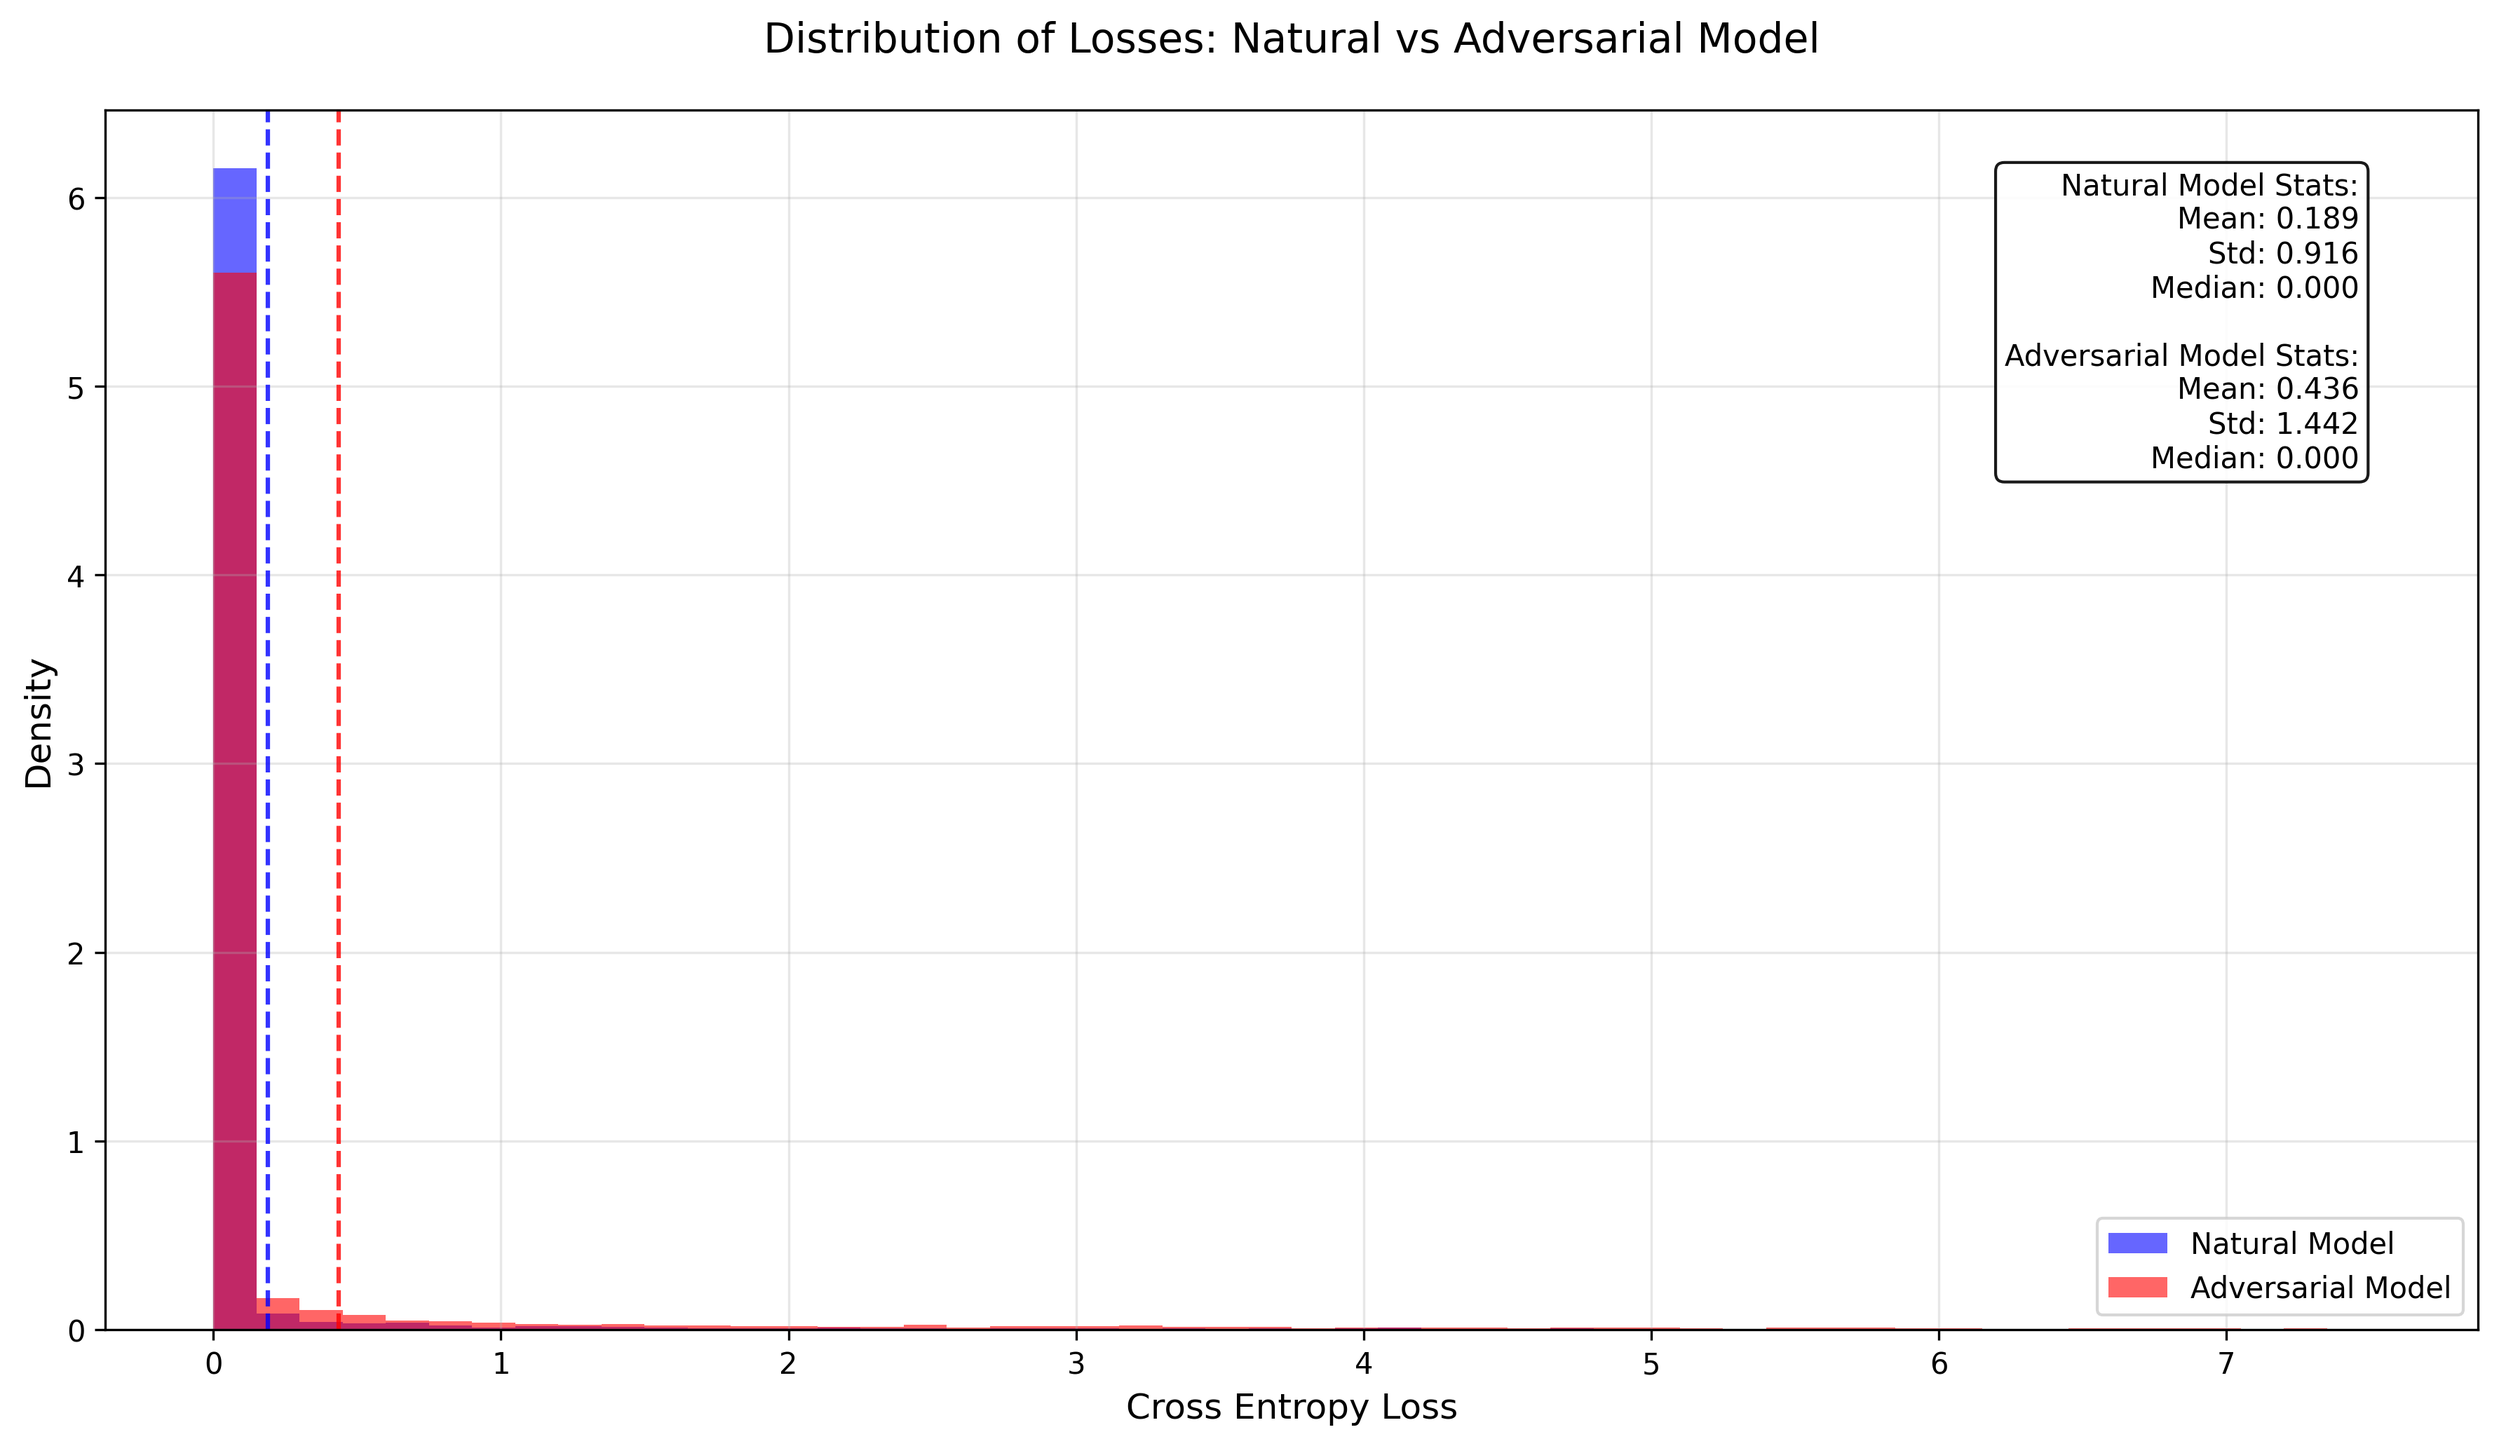
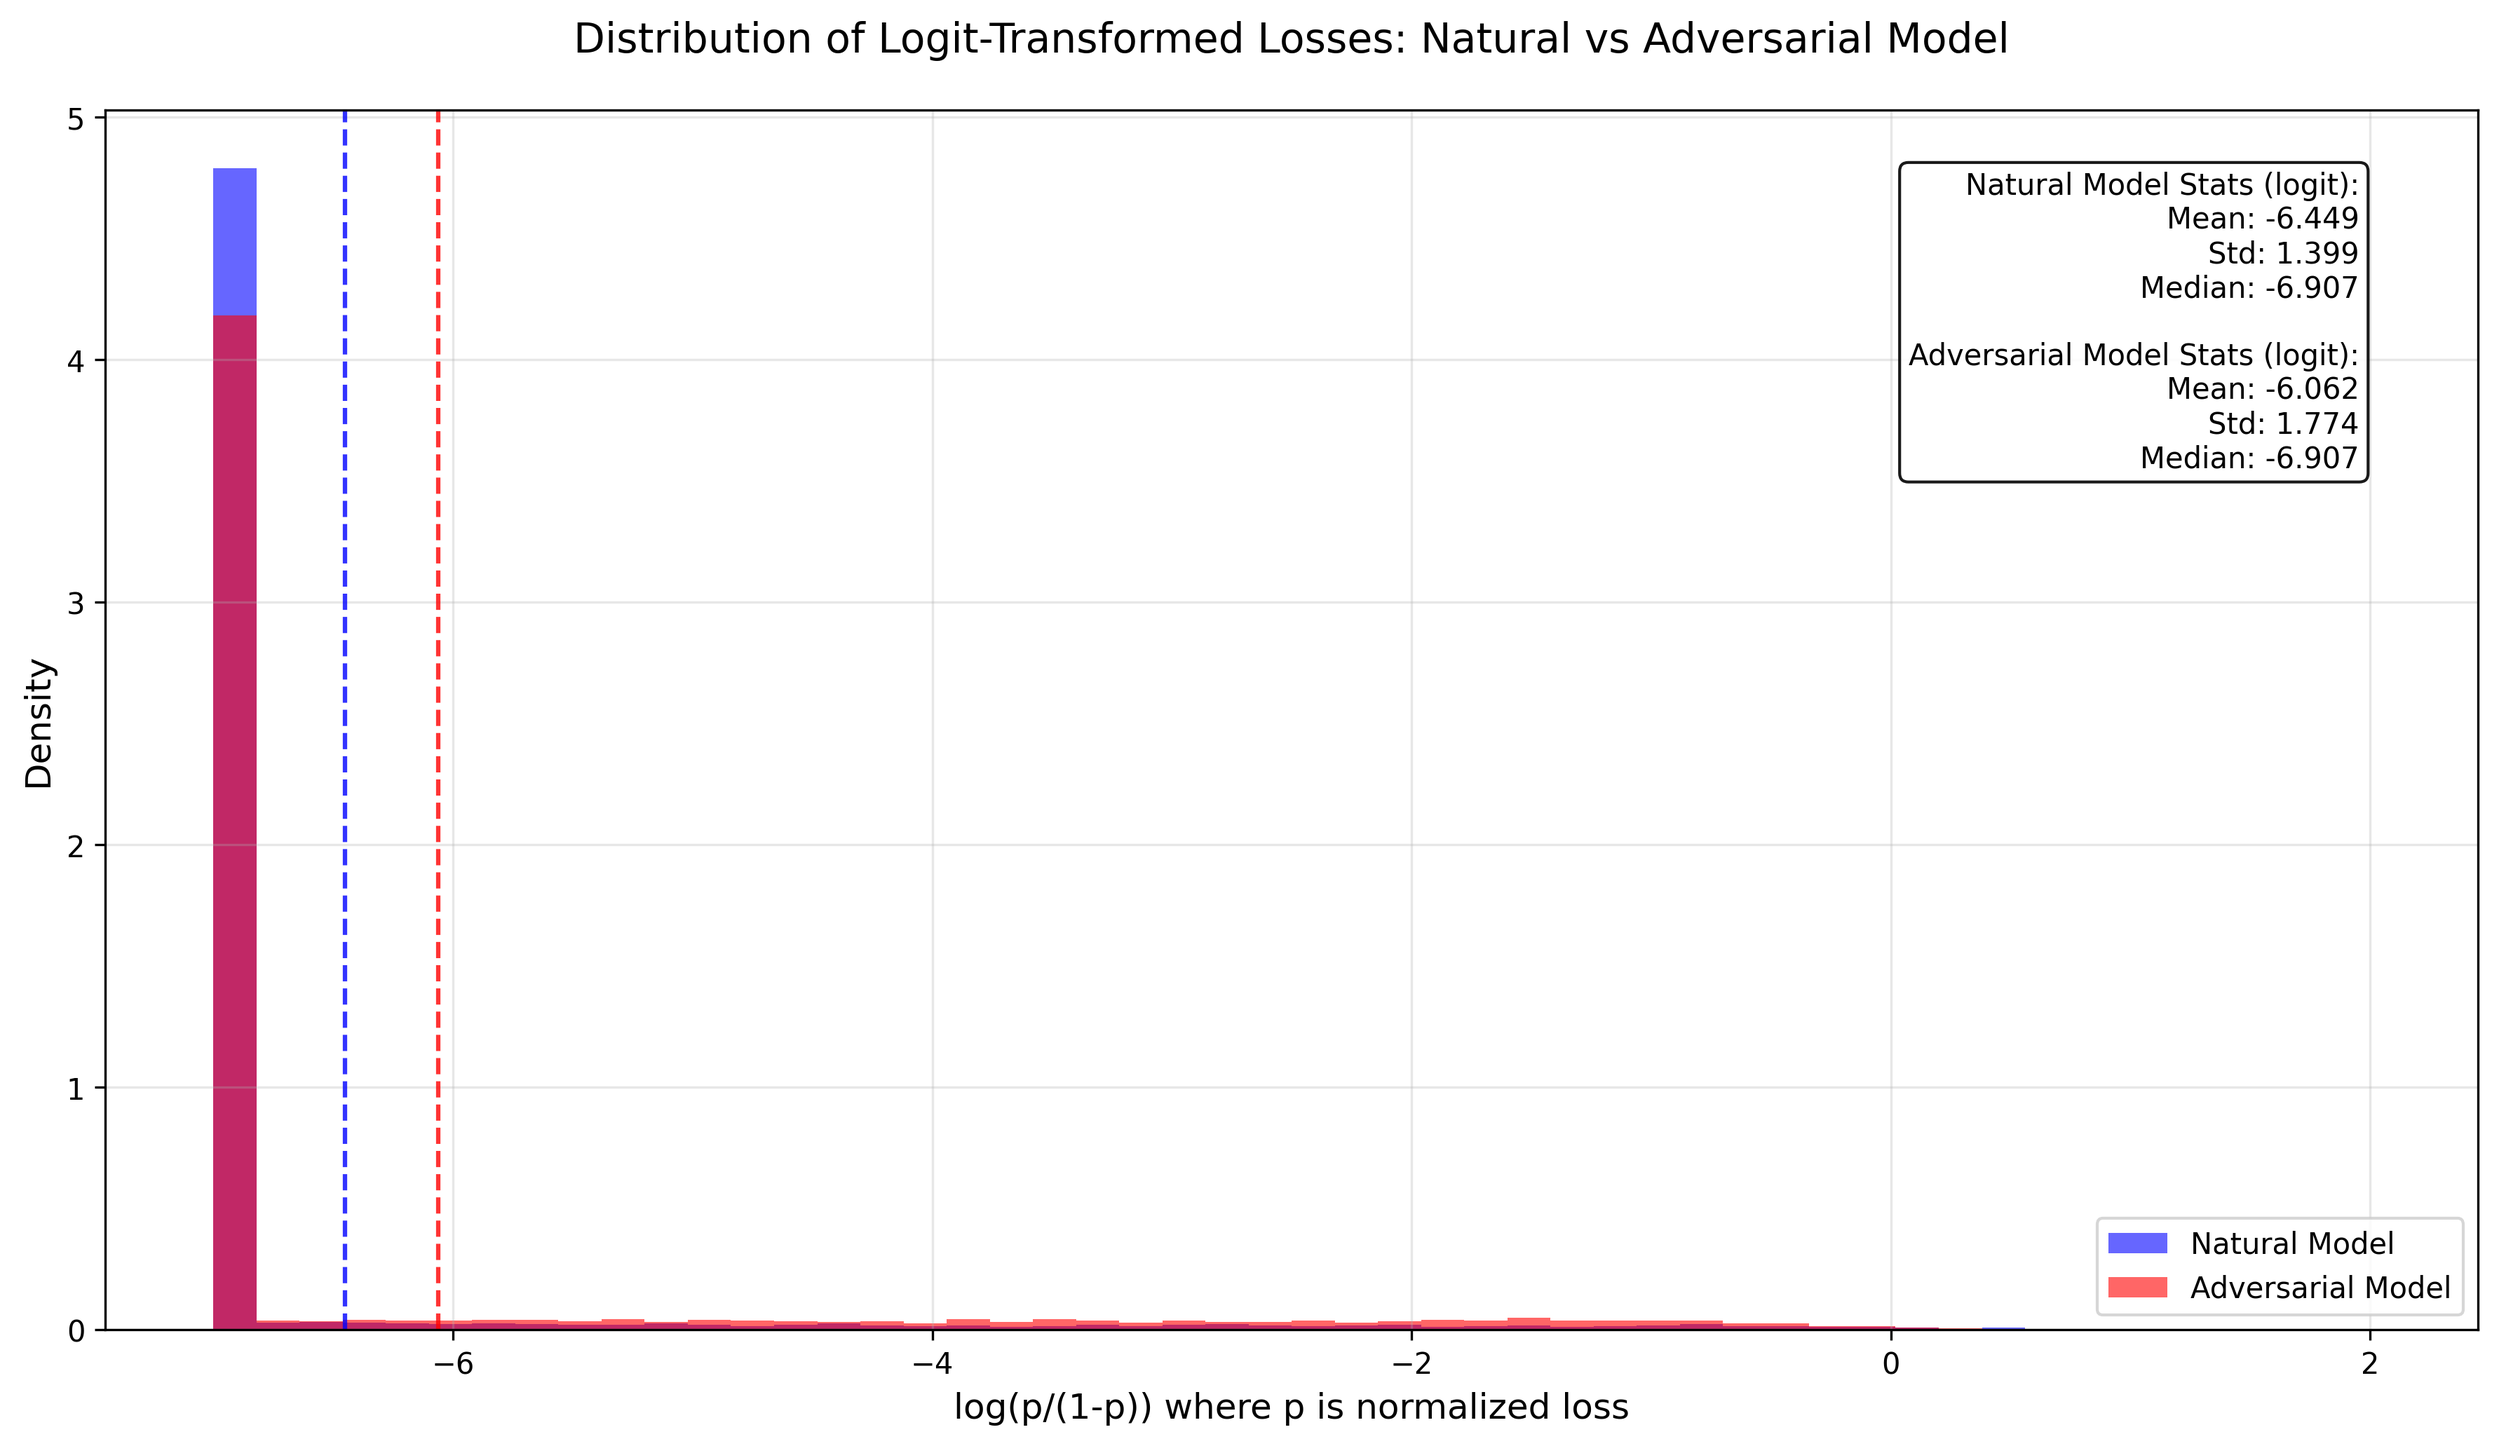
added visualization logic

diff --git a/adversarial/test.py b/adversarial/test.py
@@ -1,6 +1,8 @@
 from robustness import model_utils, datasets
 import torch
 from tqdm import tqdm
+import numpy as np
+import matplotlib.pyplot as plt
 
 def test(model_path):
     # set up dataset again
@@ -30,7 +32,7 @@ def test(model_path):
 def compare_losses(natural_model_path, adversarial_model_path):
     # set up dataset
     dataset = datasets.CIFAR("/home/gridsan/hmartinez/distribution-shift/datasets")
-    _, test_loader = dataset.make_loaders(batch_size=128, workers=8, only_val=True)
+    train_loader, test_loader = dataset.make_loaders(batch_size=128, workers=8)
     
     # load both models
     natural_model, _ = model_utils.make_and_restore_model(
@@ -49,8 +51,10 @@ def compare_losses(natural_model_path, adversarial_model_path):
     adversarial_model.eval()
     
     # store losses for each datapoint
-    natural_losses = []
-    adversarial_losses = []
+    natural_losses_train = []
+    natural_losses_test = []
+    adversarial_losses_train = []
+    adversarial_losses_test = []
     criterion = torch.nn.CrossEntropyLoss(reduction='none')
     
     with torch.no_grad():
@@ -60,52 +64,66 @@ def compare_losses(natural_model_path, adversarial_model_path):
             # compute losses for natural model
             nat_outputs, _ = natural_model(images)
             nat_loss = criterion(nat_outputs, labels)
-            natural_losses.extend(nat_loss.cpu().tolist())
+            natural_losses_test.extend(nat_loss.cpu().tolist())
             
             # compute losses for adversarial model
             adv_outputs, _ = adversarial_model(images)
             adv_loss = criterion(adv_outputs, labels)
-            adversarial_losses.extend(adv_loss.cpu().tolist())
+            adversarial_losses_test.extend(adv_loss.cpu().tolist())
+
+    with torch.no_grad():
+        for images, labels in tqdm(train_loader):
+            images, labels = images.cuda(), labels.cuda()
+            nat_outputs, _ = natural_model(images)
+            nat_loss = criterion(nat_outputs, labels)
+            natural_losses_train.extend(nat_loss.cpu().tolist())
+
+            adv_outputs, _ = adversarial_model(images)
+            adv_loss = criterion(adv_outputs, labels)
+            adversarial_losses_train.extend(adv_loss.cpu().tolist())
     
-    return natural_losses, adversarial_losses
+    return natural_losses_train, natural_losses_test, adversarial_losses_train, adversarial_losses_test
 
 def plot_loss_histogram(natural_losses, adversarial_losses, save_path):
-    """
-    Creates a histogram comparing losses between natural and adversarial models
-    Args:
-        natural_losses: List of losses from natural model
-        adversarial_losses: List of losses from adversarial model
-    """
-    import matplotlib.pyplot as plt
-    import numpy as np
+    # Normalize losses to [0,1] range for both models
+    def normalize_and_logit(losses):
+        # Min-max normalization
+        p = (losses - np.min(losses)) / (np.max(losses) - np.min(losses))
+        # Clip to avoid infinity in logit
+        p = np.clip(p, 0.001, 0.999)
+        # Calculate logit
+        return np.log(p / (1 - p))
     
-    plt.figure(figsize=(12, 7))  # Slightly larger figure
+    nat_logits = normalize_and_logit(natural_losses)
+    adv_logits = normalize_and_logit(adversarial_losses)
     
-    # Fewer bins (25 instead of 50) and increased transparency
-    plt.hist(natural_losses, bins=50, range=(0, 7.5), alpha=0.6, label='Natural Model', color='blue', density=True)
-    plt.hist(adversarial_losses, bins=50, range=(0, 7.5), alpha=0.6, label='Adversarial Model', color='red', density=True)
+    plt.figure(figsize=(12, 7))
     
-    plt.xlabel('Cross Entropy Loss', fontsize=12)
+    # Plot logit-transformed losses
+    plt.hist(nat_logits, bins=50, alpha=0.6, label='Natural Model', color='blue', density=True, range=(-7, 2))
+    plt.hist(adv_logits, bins=50, alpha=0.6, label='Adversarial Model', color='red', density=True, range=(-7, 2))
+    
+    plt.xlabel('log(p/(1-p)) where p is normalized loss', fontsize=12)
     plt.ylabel('Density', fontsize=12)
-    plt.title('Distribution of Losses: Natural vs Adversarial Model', fontsize=14, pad=20)
+    plt.title('Distribution of Logit-Transformed Losses: Natural vs Adversarial Model', fontsize=14, pad=20)
     plt.legend(fontsize=10)
     plt.grid(True, alpha=0.3)
     
     # Add mean lines with labels
-    nat_mean = np.mean(natural_losses)
-    adv_mean = np.mean(adversarial_losses)
+    nat_mean = np.mean(nat_logits)
+    adv_mean = np.mean(adv_logits)
     plt.axvline(nat_mean, color='blue', linestyle='dashed', alpha=0.8, label='Natural Mean')
     plt.axvline(adv_mean, color='red', linestyle='dashed', alpha=0.8, label='Adversarial Mean')
     
-    # Enhanced statistics text
-    stats_text = f'Natural Model Stats:\n'
+    # Update statistics text with transformed values
+    stats_text = f'Natural Model Stats (logit):\n'
     stats_text += f'Mean: {nat_mean:.3f}\n'
-    stats_text += f'Std: {np.std(natural_losses):.3f}\n'
-    stats_text += f'Median: {np.median(natural_losses):.3f}\n\n'
-    stats_text += f'Adversarial Model Stats:\n'
+    stats_text += f'Std: {np.std(nat_logits):.3f}\n'
+    stats_text += f'Median: {np.median(nat_logits):.3f}\n\n'
+    stats_text += f'Adversarial Model Stats (logit):\n'
     stats_text += f'Mean: {adv_mean:.3f}\n'
-    stats_text += f'Std: {np.std(adversarial_losses):.3f}\n'
-    stats_text += f'Median: {np.median(adversarial_losses):.3f}'
+    stats_text += f'Std: {np.std(adv_logits):.3f}\n'
+    stats_text += f'Median: {np.median(adv_logits):.3f}'
     
     plt.text(0.95, 0.95, stats_text,
              transform=plt.gca().transAxes,
@@ -117,15 +135,66 @@ def plot_loss_histogram(natural_losses, adversarial_losses, save_path):
     plt.tight_layout()
     plt.show()
     
-    # Save plot with high resolution
     plt.savefig(save_path, dpi=300, bbox_inches='tight')
     plt.close()
+
+    return nat_logits, adv_logits
+
+def plot_single_loss_histogram(losses, save_path, title):
+    """
+    Plots histogram of losses for a single model's training set.
+    
+    Args:
+        losses: Array of loss values
+        save_path: Path to save the plot
+        title: Title for the plot
+    """
+    
+    plt.figure(figsize=(12, 7))
+    
+    # Plot logit-transformed losses
+    plt.hist(losses, bins=50, alpha=0.6, color='blue', density=True, range=(min(losses), max(losses)))
+    
+    plt.xlabel('Cross-Entropy Loss', fontsize=12)
+    plt.ylabel('Density', fontsize=12)
+    plt.title(title, fontsize=14, pad=20)
+    plt.grid(True, alpha=0.3)
+    
+    # Add mean line
+    mean = np.mean(losses)
+    plt.axvline(mean, color='red', linestyle='dashed', alpha=0.8, label=f'Mean: {mean:.3f}')
+    plt.legend(fontsize=10)
+    
+    # Add statistics text
+    stats_text = f'Statistics (logit):\n'
+    stats_text += f'Mean: {mean:.3f}\n'
+    stats_text += f'Std: {np.std(losses):.3f}\n'
+    stats_text += f'Median: {np.median(losses):.3f}'
+    
+    plt.text(0.95, 0.95, stats_text,
+             transform=plt.gca().transAxes,
+             verticalalignment='top',
+             horizontalalignment='right',
+             bbox=dict(boxstyle='round', facecolor='white', alpha=0.9),
+             fontsize=10)
+    
+    plt.tight_layout()
+    plt.show()
+    
+    plt.savefig(save_path, dpi=300, bbox_inches='tight')
+    plt.close()
+    
+    return losses
+
 
 
 
 if __name__ == "__main__":
     MODEL_PATH = "/home/gridsan/hmartinez/distribution-shift/models/natural/149_checkpoint.pt"
     ADVERSARIAL_MODEL_PATH = "/home/gridsan/hmartinez/distribution-shift/models/adversarial/149_checkpoint.pt"
-    FIGURE_PATH = "/home/gridsan/hmartinez/distribution-shift/adversarial/visualizations/adversarial_vs_natural_loss_150epochs_CIFAR10_resnet18.png"
-    natural_losses, adversarial_losses = compare_losses(MODEL_PATH, ADVERSARIAL_MODEL_PATH)
-    plot_loss_histogram(natural_losses, adversarial_losses, FIGURE_PATH)
+    # FIGURE_PATH = "/home/gridsan/hmartinez/distribution-shift/adversarial/visualizations/adversarial_vs_natural_loss_150epochs_CIFAR10_resnet18.png"
+    natural_losses_train, natural_losses_test, adversarial_losses_train, adversarial_losses_test = compare_losses(MODEL_PATH, ADVERSARIAL_MODEL_PATH)
+    plot_single_loss_histogram(natural_losses_train, "/home/gridsan/hmartinez/distribution-shift/adversarial/visualizations/natural_train_loss_distribution_150epochs_CIFAR10_resnet18.png", "Natural Model Train Set Loss Distribution")
+    plot_single_loss_histogram(natural_losses_test, "/home/gridsan/hmartinez/distribution-shift/adversarial/visualizations/natural_test_loss_distribution_150epochs_CIFAR10_resnet18.png", "Natural Model Test Set Loss Distribution")
+    plot_single_loss_histogram(adversarial_losses_train, "/home/gridsan/hmartinez/distribution-shift/adversarial/visualizations/adversarial_train_loss_distribution_150epochs_CIFAR10_resnet18.png", "Adversarial Model Train Set Loss Distribution")
+    plot_single_loss_histogram(adversarial_losses_test, "/home/gridsan/hmartinez/distribution-shift/adversarial/visualizations/adversarial_test_loss_distribution_150epochs_CIFAR10_resnet18.png", "Adversarial Model Test Set Loss Distribution")

diff --git a/adversarial/train.py b/adversarial/train.py
@@ -96,5 +96,12 @@ def train_adversarial(config):
     model = train.train_model(train_args, model, (train_loader, val_loader))
     return model
 
+# TODO: add a function that will train a model with the first half of the dataset
+# naturally and the second half adversarially, each with an equal number of gradient
+# updates per image.
+
+
+
+
 if __name__ == "__main__":
     train_adversarial(ADVERSARIAL_TRAINING_PARAMS)
